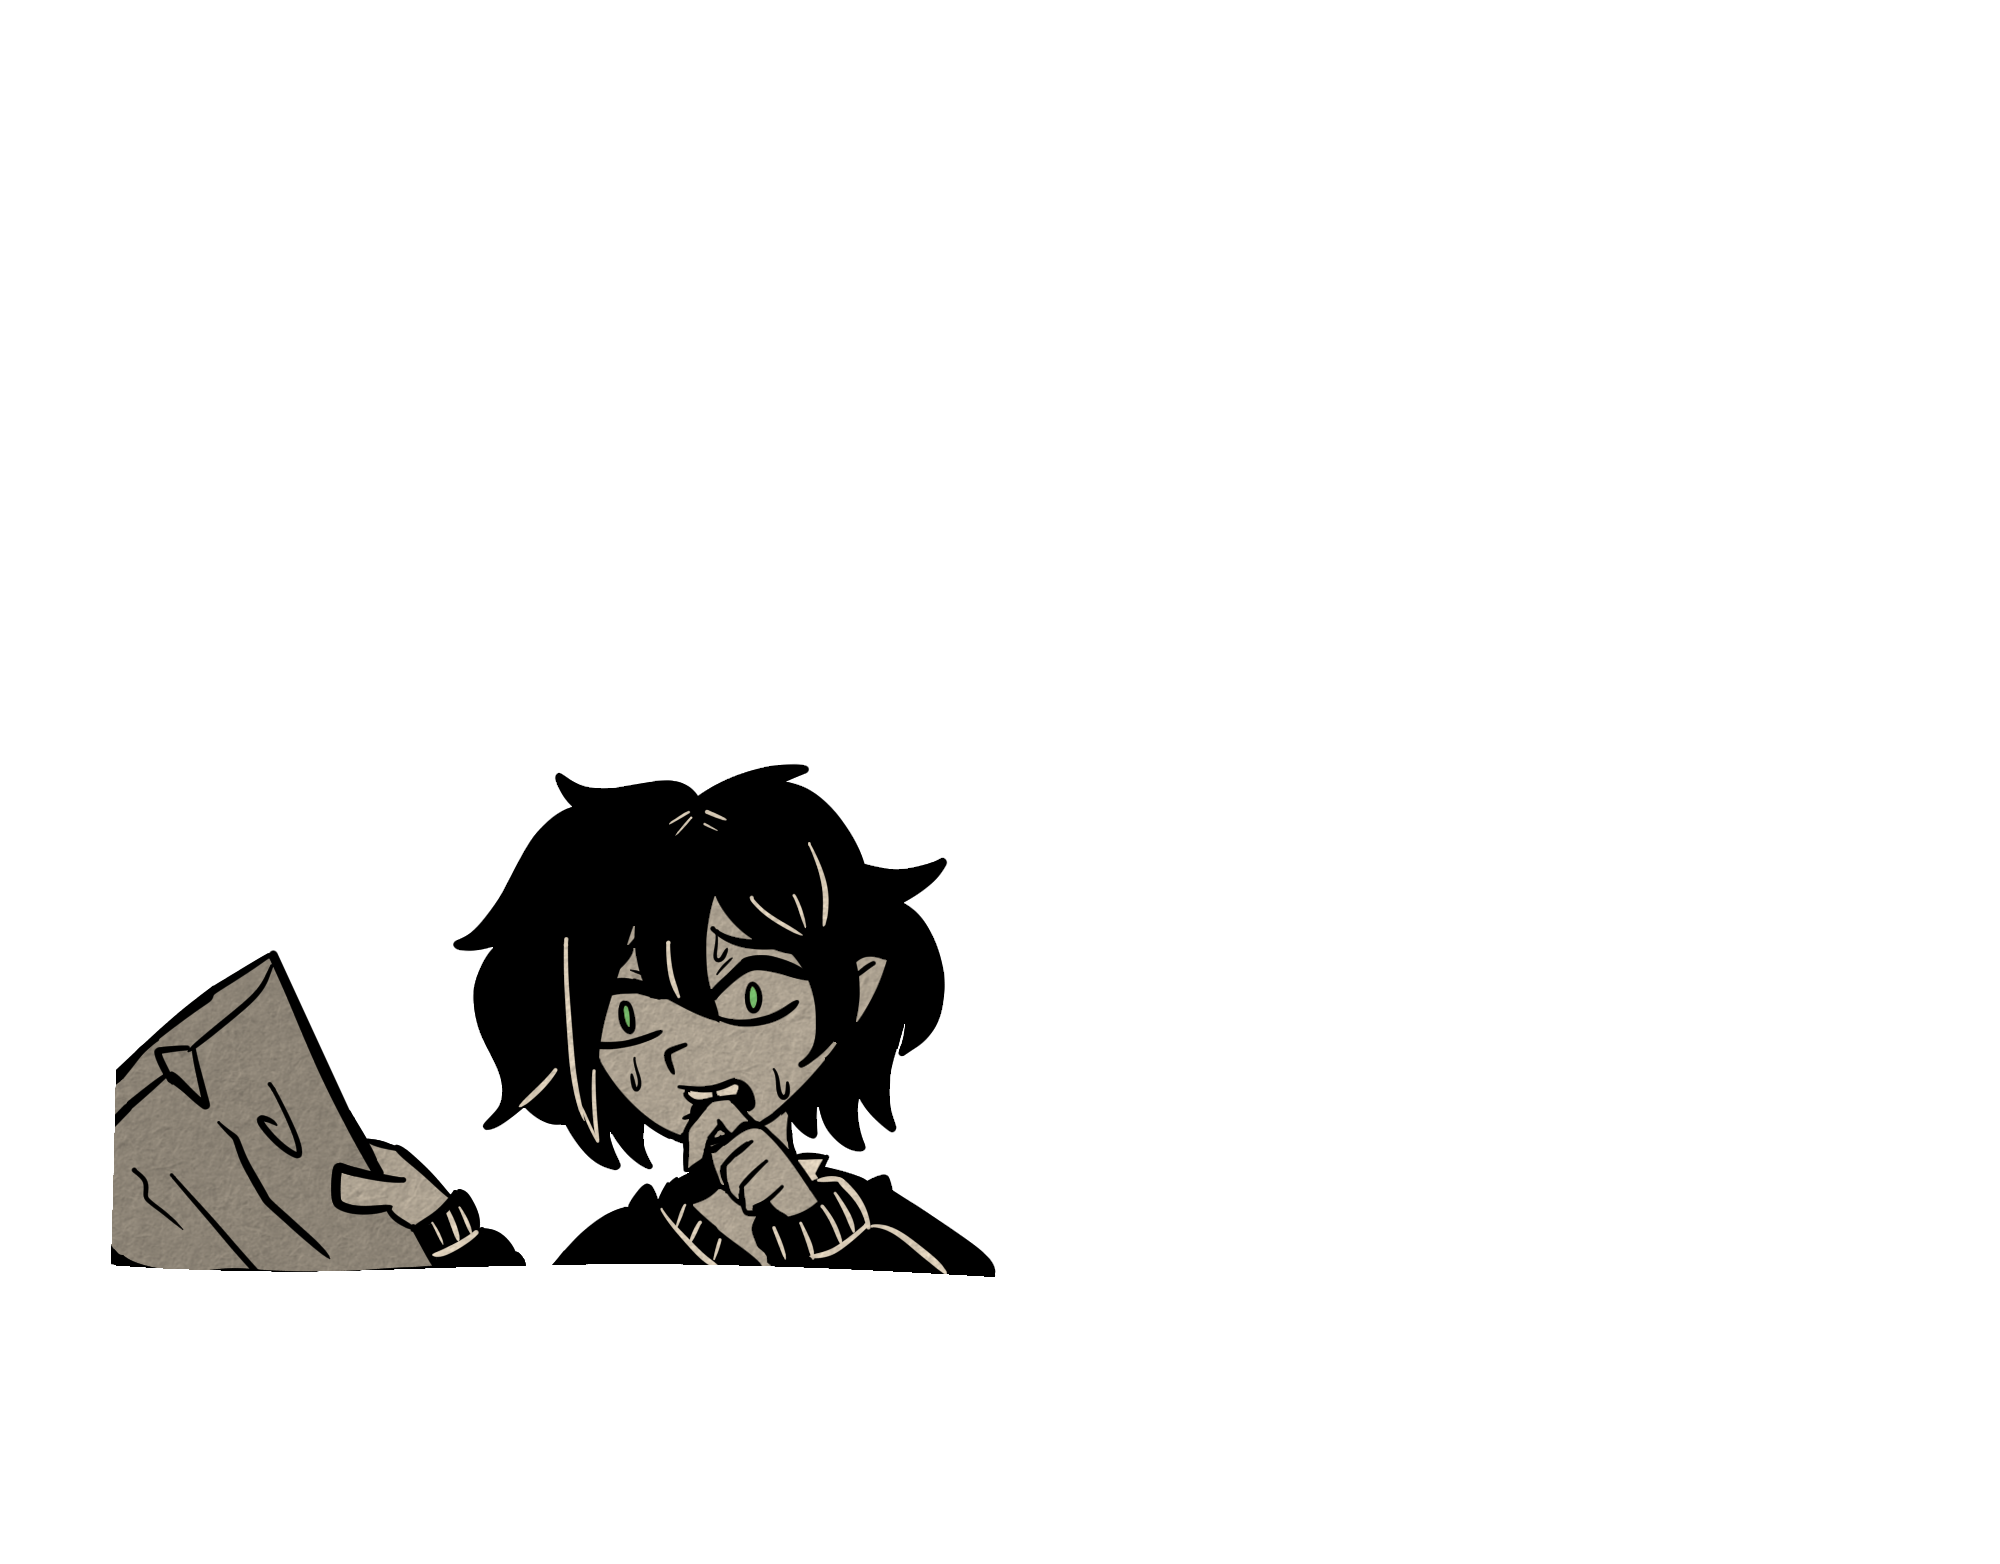
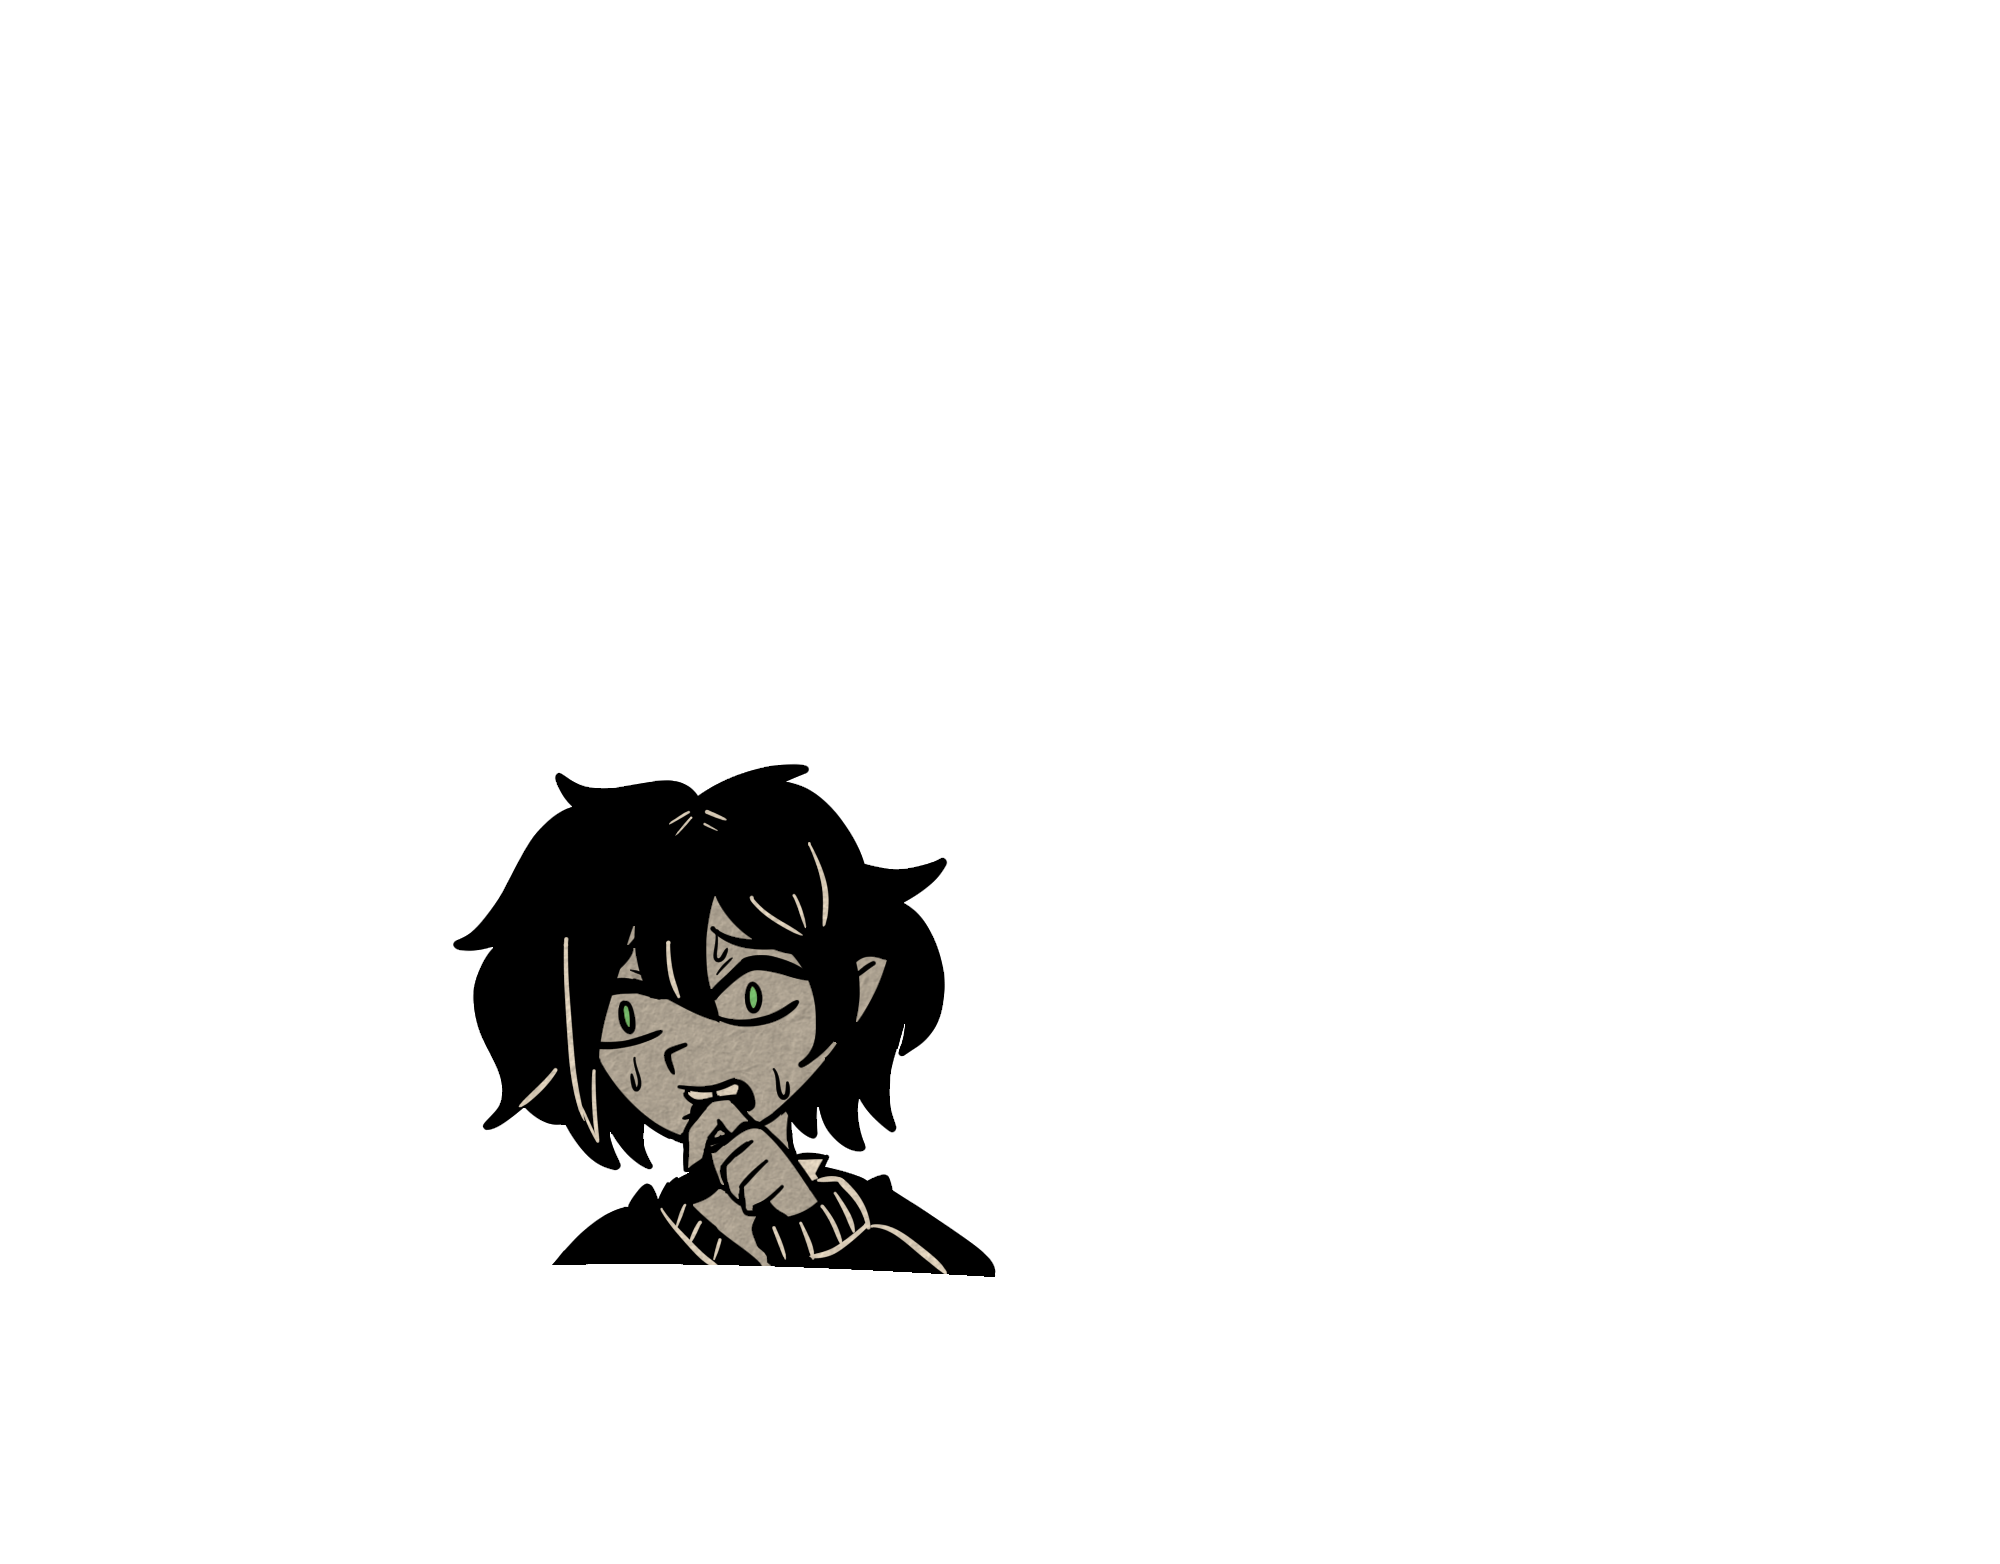
Made more progress on the uh chapter one hide section yeah

Changed region(s): [[0.031, 0.6138, 0.279, 0.8286]]

diff --git a/src/wwwroot/js/script.js b/src/wwwroot/js/script.js
@@ -119,6 +119,12 @@ monogatari.assets('images', {
     'ch1-nearly-caught-test-1': 'rclisk324-test-1.jpg',
     'ch1-hide-background': 'ch1-hide-background.png',
     'ch1-hide-bitedrew': 'ch1-hide-bitedrew.png',
+    'ch1-hide-staredrew-straight': 'ch1-hide-staredrew-straight.png',
+    'ch1-hide-staredrew-right': 'ch1-hide-staredrew-right.png',
+    'ch1-hide-sushley': 'ch1-hide-sushley.png',
+    'ch1-hide-closeshley': 'ch1-hide-closeshley.png',
+    'ch1-hide-relievedrew': 'ch1-hide-relievedrew.png',
+    'ch1-hide-relievedshley': 'ch1-hide-relievedshley.png',
     'cannibal-casket-chapter-1-intro': 'cannibal-casket-chapter-1-intro.png',
 });
 
@@ -340,22 +346,41 @@ monogatari.script({
             'You don\'t stop to give thanks. You bolt down the balcony, picking up the plank as you go just before the door opens.',
             'Your pace slows as you reach Andrew. You cover your panting mouth with your hands after slowly putting down the plank and mop to keep quiet.',
             'show image ch1-hide-background with fadein',
-            'show image ch1-hide-bitedrew with fadein',
+            'show image ch1-hide-staredrew-straight with fadein',
             'Andrew is hiding right by the balcony, listening.',
+            'show image ch1-hide-closeshley with fadein',
+            'hide image ch1-hide-staredrew-straight',
+            'show image ch1-hide-staredrew-right',
             'You join him there. ',
             'warden: Greetings and salutations!',
+            'hide image ch1-hide-staredrew-right',
+            'show image ch1-hide-bitedrew',
             'The warden\'s loud voice almost makes you jump.',
             'His footsteps can be heard creaking the floor as he moves around the apartment.',
+            'hide image ch1-hide-bitedrew',
+            'show image ch1-hide-staredrew-straight',
             'The walls are criminally thin here, they must be made of cardboard. Reinforced with plastic.',
+            'hide image ch1-hide-staredrew-straight',
+            'show image ch1-hide-bitedrew',
             'warden: ..... Huh?',
             'warden: Anybody home?',
+            'hide image ch1-hide-bitedrew',
+            'show image ch1-hide-staredrew-right',
             'There\'s a long stretch of silence, Andrew\'s eyes dart to yours for a moment.',
             'You can almost feel him silently judging, hoping that you did well enough at mopping up.',
             'Naturally, your mopping skills are stupendous. Despite the shabby equipment, you cleaned that up really well.',
             'warden: ..... Oh, great. Another suicide.',
+            'hide image ch1-hide-staredrew-right',
+            'show image ch1-hide-relievedrew',
             'You can visibly see the relief wash over Andrew, that sigh of his preceeds your own, but you\'re just happy to see him happy.',
+            'hide image ch1-hide-closeshley',
+            'show image ch1-hide-relievedshley',
             'Well, happier... He\'s not exactly smiling. It\'s getting harder to see him smile these days.',
+            'hide image ch1-hide-relievedrew',
+            'show image ch1-hide-bitedrew',
             'You can hear more footsteps as the warden paces and searches the neighbor\'s room.',
+            'hide image ch1-hide-relievedshley',
+            'show image ch1-hide-sushley',
             'There\'s the sound of the closet opening and closing - you definitely would have been caught if you tried to hide in there.',
             'Good thing you didn\'t, huh?',
             'The warden\'s search continues, you can hear footsteps, desks being bumped against, chairs moving...',

diff --git a/src/wwwroot/js/options.js b/src/wwwroot/js/options.js
@@ -157,10 +157,10 @@ monogatari.preferences ({
 
 	// Initial Volumes from 0.0 to 1.
 	'Volume': {
-		'Music': 1,
-		'Voice': 1,
-		'Sound': 1,
-		'Video': 1
+		'Music': 0.5,
+		'Voice': 0.8,
+		'Sound': 0.8,
+		'Video': 0.8
 	},
 
 	// Initial resolution used for Electron, it must match the settings inside
